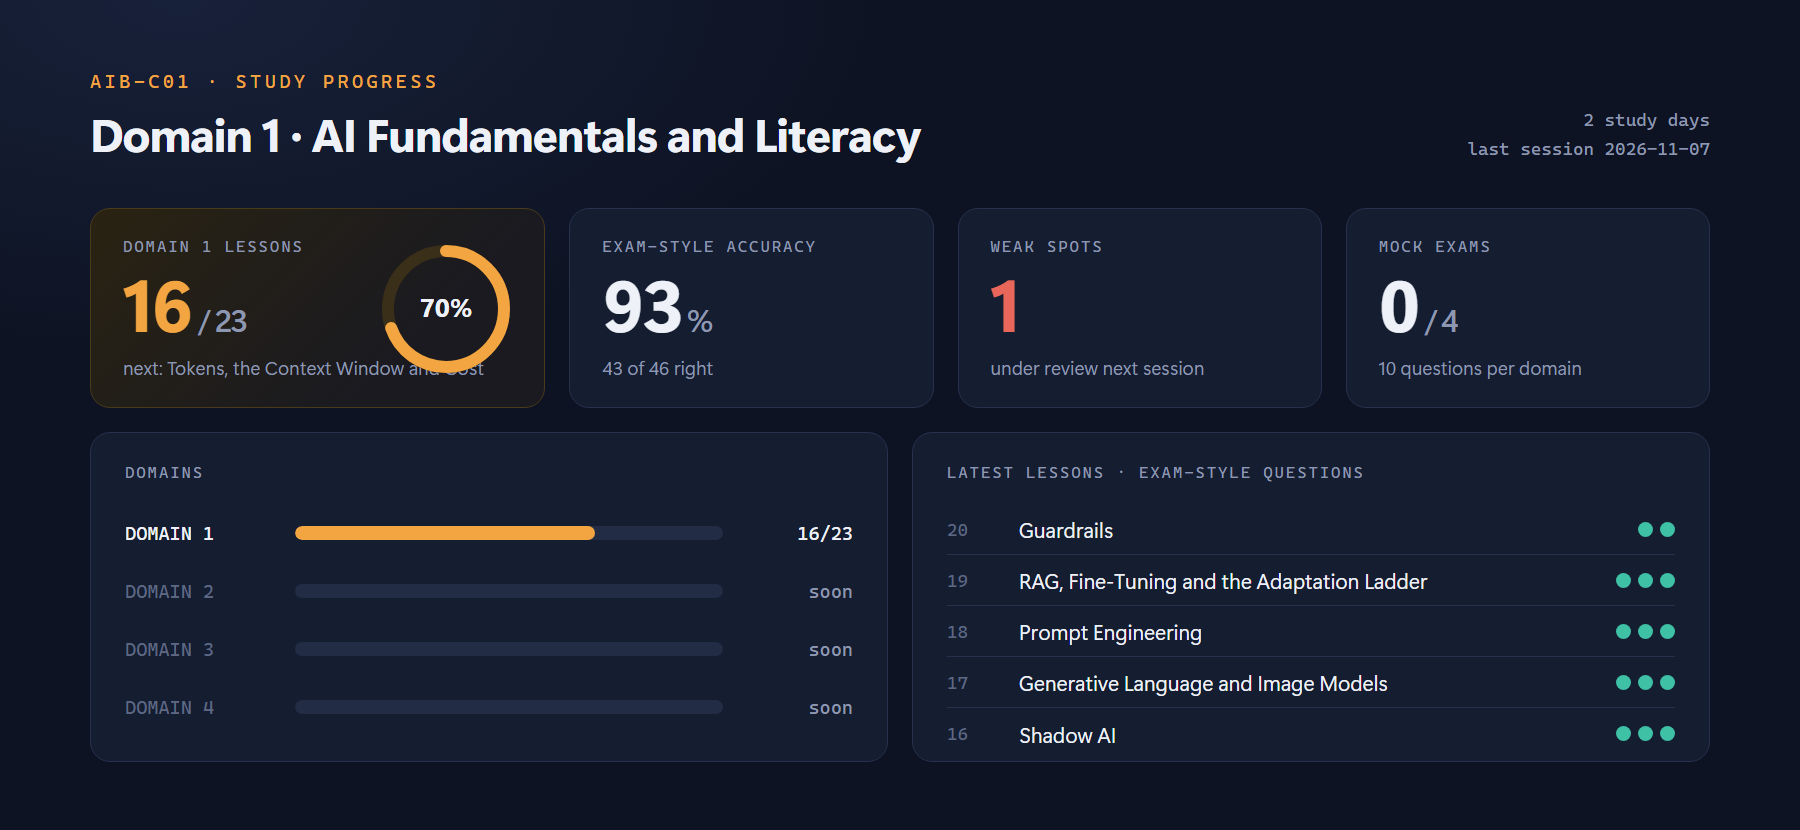
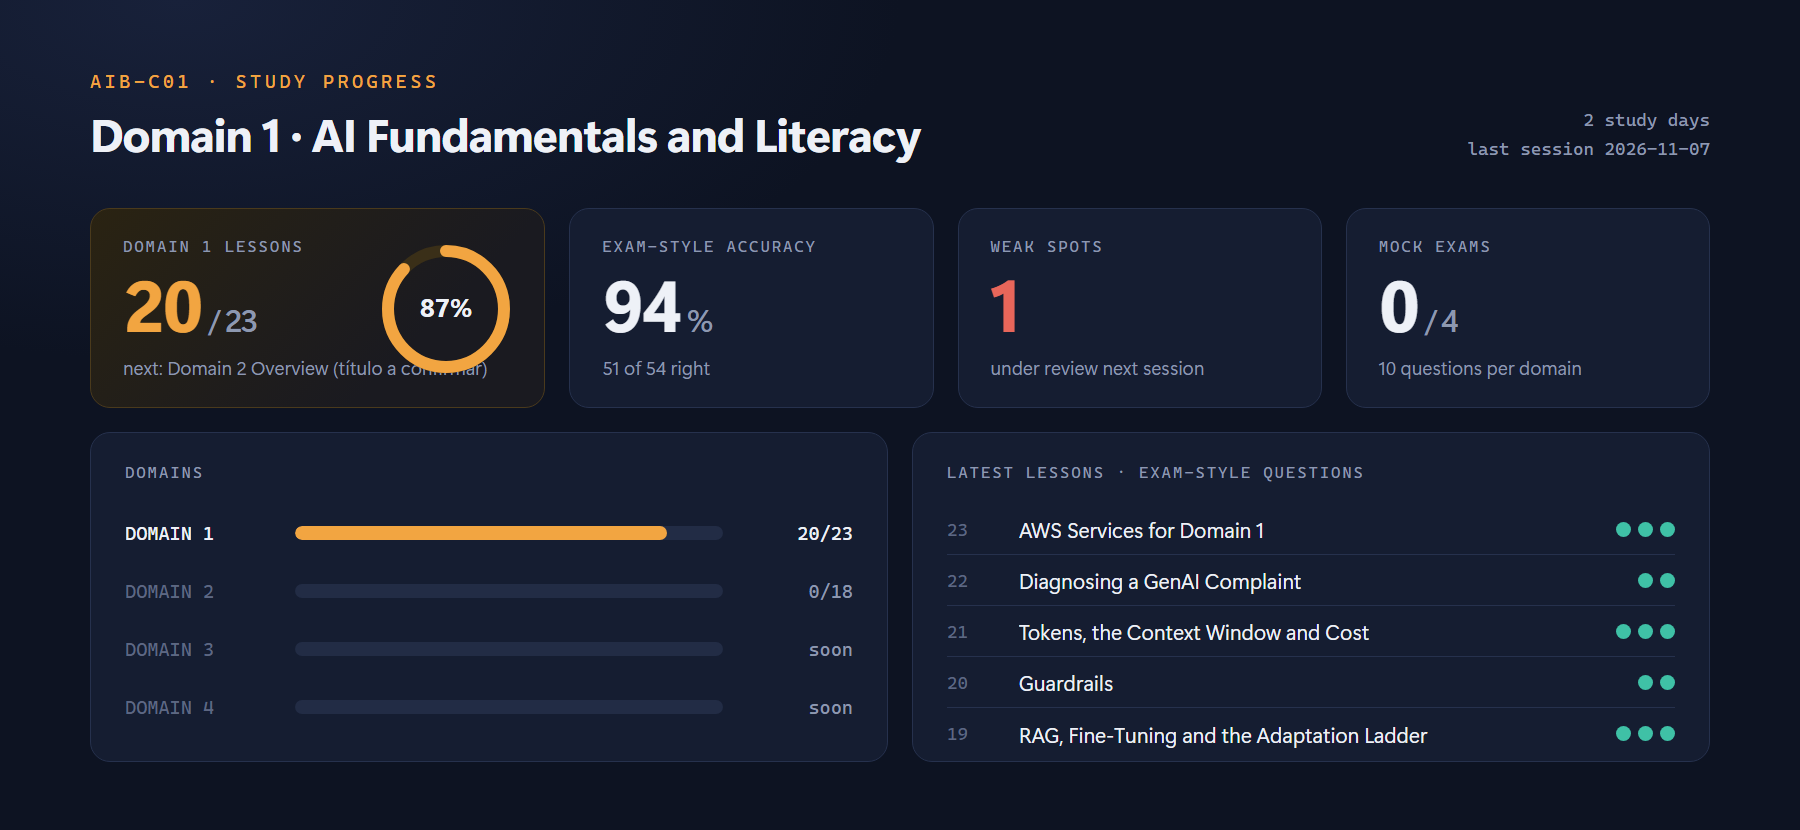
docs(progress): close domain 1 lessons and role play

diff --git a/design/readme/data.js b/design/readme/data.js
@@ -3,25 +3,25 @@ window.DATA = {
   "updated": "2026-11-07",
   "started": "2026-11-06",
   "days": 2,
-  "lessonsDone": 17,
+  "lessonsDone": 21,
   "skipped": 2,
-  "right": 43,
-  "asked": 46,
-  "accuracy": 93,
+  "right": 51,
+  "asked": 54,
+  "accuracy": 94,
   "domains": [
     {
       "number": 1,
       "title": "AI Fundamentals and Literacy",
-      "done": 16,
+      "done": 20,
       "total": 23,
-      "right": 43,
-      "asked": 46
+      "right": 51,
+      "asked": 54
     },
     {
       "number": 2,
-      "title": null,
+      "title": "AI Strategy and Business Value Creation",
       "done": 0,
-      "total": null,
+      "total": 18,
       "right": 0,
       "asked": 0
     },
@@ -43,8 +43,29 @@ window.DATA = {
     }
   ],
   "current": 1,
-  "next": "21. Tokens, the Context Window and Cost",
+  "next": "25. Domain 2 Overview (título a confirmar)",
   "recent": [
+    {
+      "number": 23,
+      "title": "AWS Services for Domain 1",
+      "state": "done",
+      "right": 3,
+      "asked": 3
+    },
+    {
+      "number": 22,
+      "title": "Diagnosing a GenAI Complaint",
+      "state": "done",
+      "right": 2,
+      "asked": 2
+    },
+    {
+      "number": 21,
+      "title": "Tokens, the Context Window and Cost",
+      "state": "done",
+      "right": 3,
+      "asked": 3
+    },
     {
       "number": 20,
       "title": "Guardrails",
@@ -55,27 +76,6 @@ window.DATA = {
     {
       "number": 19,
       "title": "RAG, Fine-Tuning and the Adaptation Ladder",
-      "state": "done",
-      "right": 3,
-      "asked": 3
-    },
-    {
-      "number": 18,
-      "title": "Prompt Engineering",
-      "state": "done",
-      "right": 3,
-      "asked": 3
-    },
-    {
-      "number": 17,
-      "title": "Generative Language and Image Models",
-      "state": "done",
-      "right": 3,
-      "asked": 3
-    },
-    {
-      "number": 16,
-      "title": "Shadow AI",
       "state": "done",
       "right": 3,
       "asked": 3

diff --git a/progress.md b/progress.md
@@ -2,7 +2,7 @@
 
 ## Dónde estoy
 
-Próxima lección: 21. Tokens, the Context Window and Cost
+Próxima lección: 25. Domain 2 Overview (título a confirmar)
 
 ## Temario
 
@@ -31,13 +31,16 @@ Próxima lección: 21. Tokens, the Context Window and Cost
 - [x] 18. Prompt Engineering (3/3)
 - [x] 19. RAG, Fine-Tuning and the Adaptation Ladder (3/3)
 - [x] 20. Guardrails (2/2)
-- [ ] 21. Tokens, the Context Window and Cost
-- [ ] 22. Diagnosing a GenAI Complaint
-- [ ] 23. AWS Services for Domain 1
-- [ ] 24. Domain 1 Wrap-up: The Method, and CozyCo
-- Cuestionario 1: AWS Services Quiz: Domain 1
-- Cuestionario 2: AI Fundamentals and Literacy Quiz
-- El resto se suma a medida que avanzamos.
+- [x] 21. Tokens, the Context Window and Cost (3/3)
+- [x] 22. Diagnosing a GenAI Complaint (2/2)
+- [x] 23. AWS Services for Domain 1 (3/3)
+- [x] 24. Domain 1 Wrap-up: The Method, and CozyCo (sin preguntas)
+- Cuestionario 1: AWS Services Quiz: Domain 1 (Udemy, 4/4)
+- Cuestionario 2: AI Fundamentals and Literacy Quiz (Udemy, 18/18)
+- Role play 1: The First AI Meeting at CozyCo (hecho en Udemy)
+
+### Sección 4: Domain 2: AI Strategy and Business Value Creation (18 lecciones, 1 role play)
+- Se suma a medida que avanzamos.
 
 ## Puntos flojos
 
@@ -45,7 +48,7 @@ Próxima lección: 21. Tokens, the Context Window and Cost
 
 ## Simulacros
 
-Ninguno todavía.
+Ninguno todavía. Pendiente: el del dominio 1 (se pasó directo al dominio 2).
 
 ## Registro
 
@@ -65,3 +68,9 @@ Ninguno todavía.
 - 2026-11-07: lección 18, 3/3 (prompt engineering = task, context, examples, material; 4 principios; no cambia el modelo y es lo más barato).
 - 2026-11-07: lección 19, 3/3 (knowledge nuevo = RAG/grounding, behavior nuevo = fine-tuning; palancas por costo: prompt → RAG → fine-tuning; foundation model ⊃ LLM).
 - 2026-11-07: lección 20, 2/2 (guardrail filtra entrada y salida: temas, contenido dañino, datos sensibles, prompt injection; no agrega datos ni arregla formato; uno sirve para cualquier modelo).
+- 2026-11-07: lección 21, 3/3 (token, context window compartida input/output, capacity problem crece con el largo → compaction; se paga por token; plan más barato del mismo modelo no baja la calidad, otro modelo sí puede).
+- 2026-11-07: lección 22, 2/2 (4 reclamos → 4 palancas: formato → prompt, inputs largos → context window, datos viejos → RAG, behavior → fine-tuning; "más datos" nunca alcanza solo).
+- 2026-11-07: lección 23, 3/3 (Bedrock = GenAI con KB/Guardrails/fine-tuning/Agents; Quick = asistente interno rápido sobre datos propios; SageMaker AI = ML a medida + Model Monitor; Marketplace = compra de terceros; CAF governance = dueño de la política).
+- 2026-11-07: cuestionarios de Udemy del dominio 1: AWS Services 4/4, AI Fundamentals and Literacy 18/18.
+- 2026-11-07: lección 24 vista (método de 6 pasos y CozyCo), sin preguntas: pasamos directo al role play.
+- 2026-11-07: role play 1 hecho en Udemy (The First AI Meeting at CozyCo). Simulacro del dominio 1 queda pendiente. Arranca el dominio 2.

diff --git a/README.md b/README.md
@@ -5,8 +5,8 @@
 
 <!-- badges:start -->
 [![Exam](https://img.shields.io/badge/exam-AIB--C01-1B2440?style=flat-square)](#the-brief)
-[![Domain](https://img.shields.io/badge/domain%201-16%2F23%20lessons-E0A13A?style=flat-square)](#progress)
-[![Accuracy](https://img.shields.io/badge/exam--style%20accuracy-93%25%20%2843%2F46%29-2E9E83?style=flat-square)](#progress)
+[![Domain](https://img.shields.io/badge/domain%201-20%2F23%20lessons-E0A13A?style=flat-square)](#progress)
+[![Accuracy](https://img.shields.io/badge/exam--style%20accuracy-94%25%20%2851%2F54%29-2E9E83?style=flat-square)](#progress)
 [![Mocks](https://img.shields.io/badge/mock%20exams-0%2F4-5F6073?style=flat-square)](#progress)
 [![License](https://img.shields.io/badge/license-proprietary-4A4E6D?style=flat-square)](LICENSE)
 <!-- badges:end -->
@@ -43,12 +43,12 @@ The course transcripts and slides stay on my machine: they belong to the course 
 <!-- progress:start -->
 | | Domain | Lessons | Exam-style | |
 |---|---|---|---|---|
-| 1 | AI Fundamentals and Literacy | 16/23 | 43/46 | ![in progress](https://img.shields.io/badge/-in%20progress-E0A13A?style=flat-square) |
-| 2 | _not reached yet_ | – | – | ![not started](https://img.shields.io/badge/-not%20started-5F6073?style=flat-square) |
+| 1 | AI Fundamentals and Literacy | 20/23 | 51/54 | ![in progress](https://img.shields.io/badge/-in%20progress-E0A13A?style=flat-square) |
+| 2 | AI Strategy and Business Value Creation | 0/18 | – | ![not started](https://img.shields.io/badge/-not%20started-5F6073?style=flat-square) |
 | 3 | _not reached yet_ | – | – | ![not started](https://img.shields.io/badge/-not%20started-5F6073?style=flat-square) |
 | 4 | _not reached yet_ | – | – | ![not started](https://img.shields.io/badge/-not%20started-5F6073?style=flat-square) |
 
-**Next up:** 21. Tokens, the Context Window and Cost
+**Next up:** 25. Domain 2 Overview (título a confirmar)
 
 **Weak spots under review** (logged in Spanish, as studied):
 
